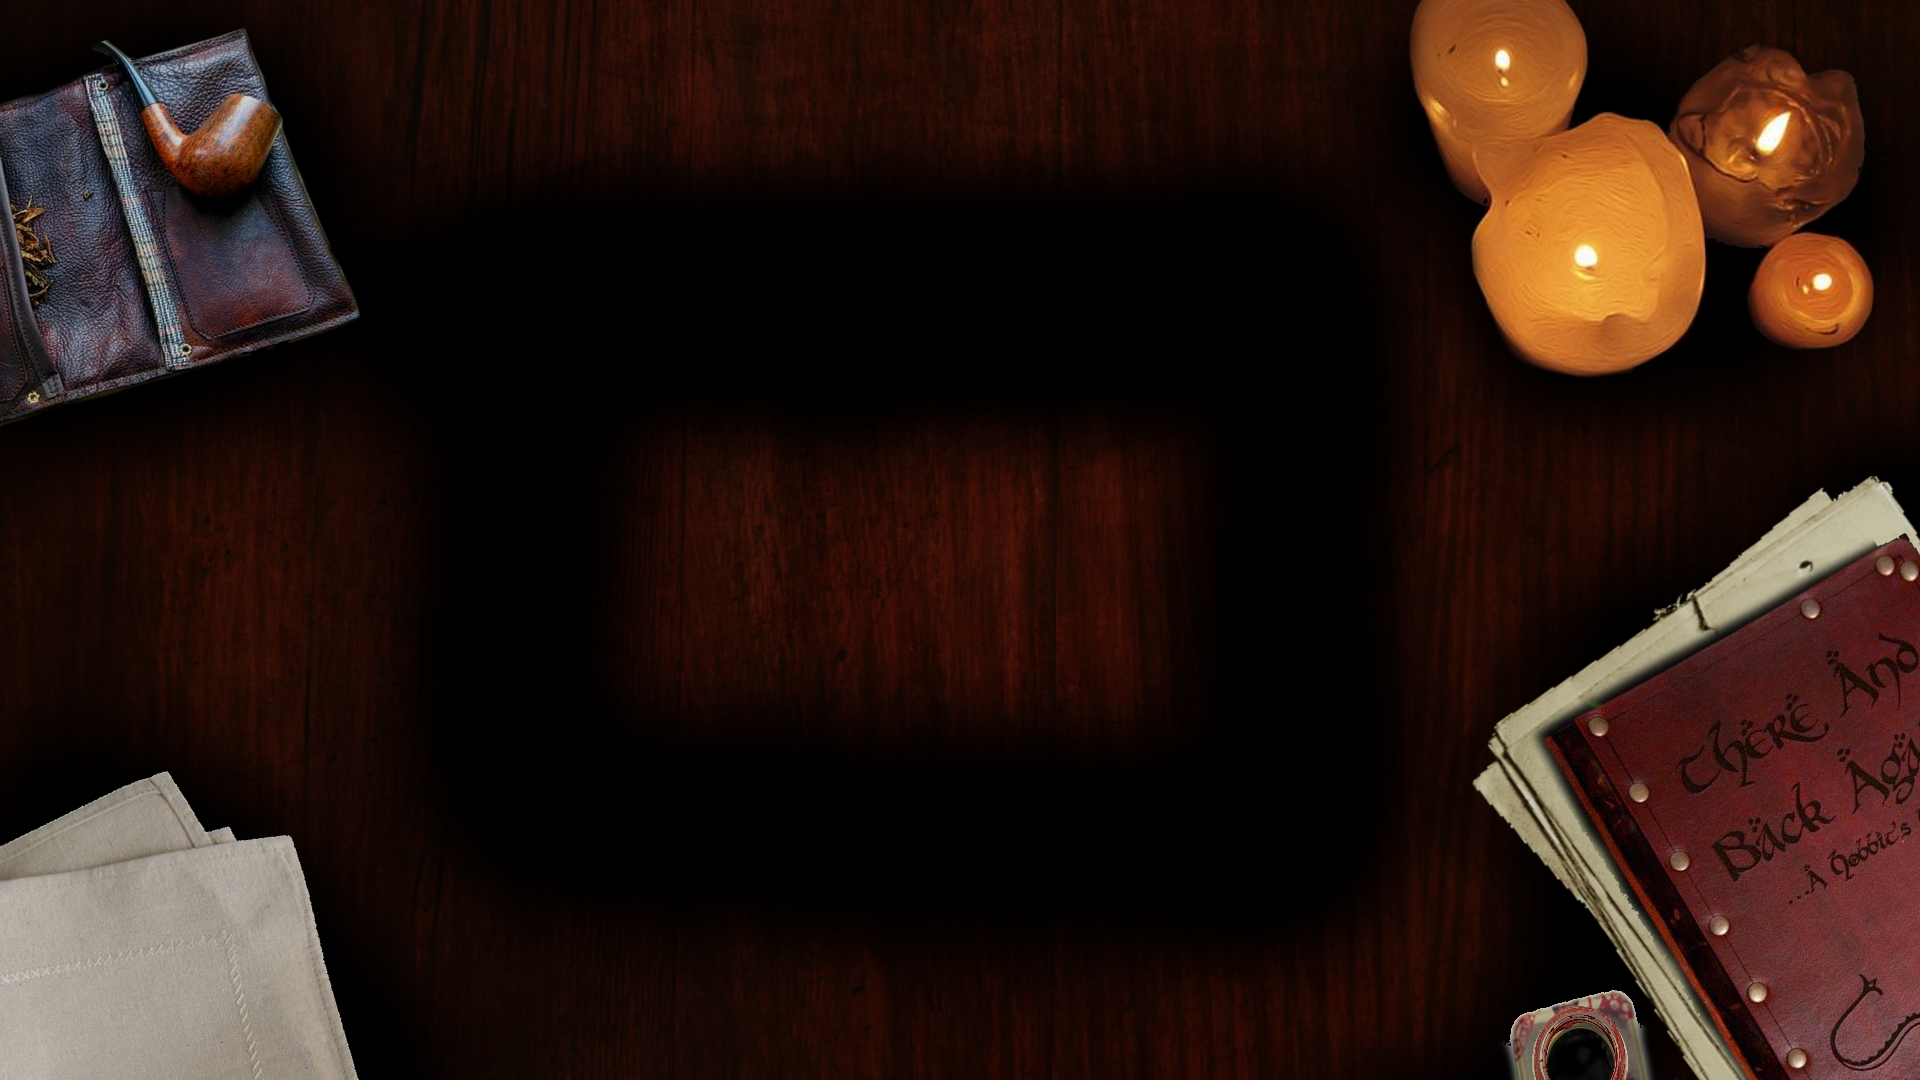
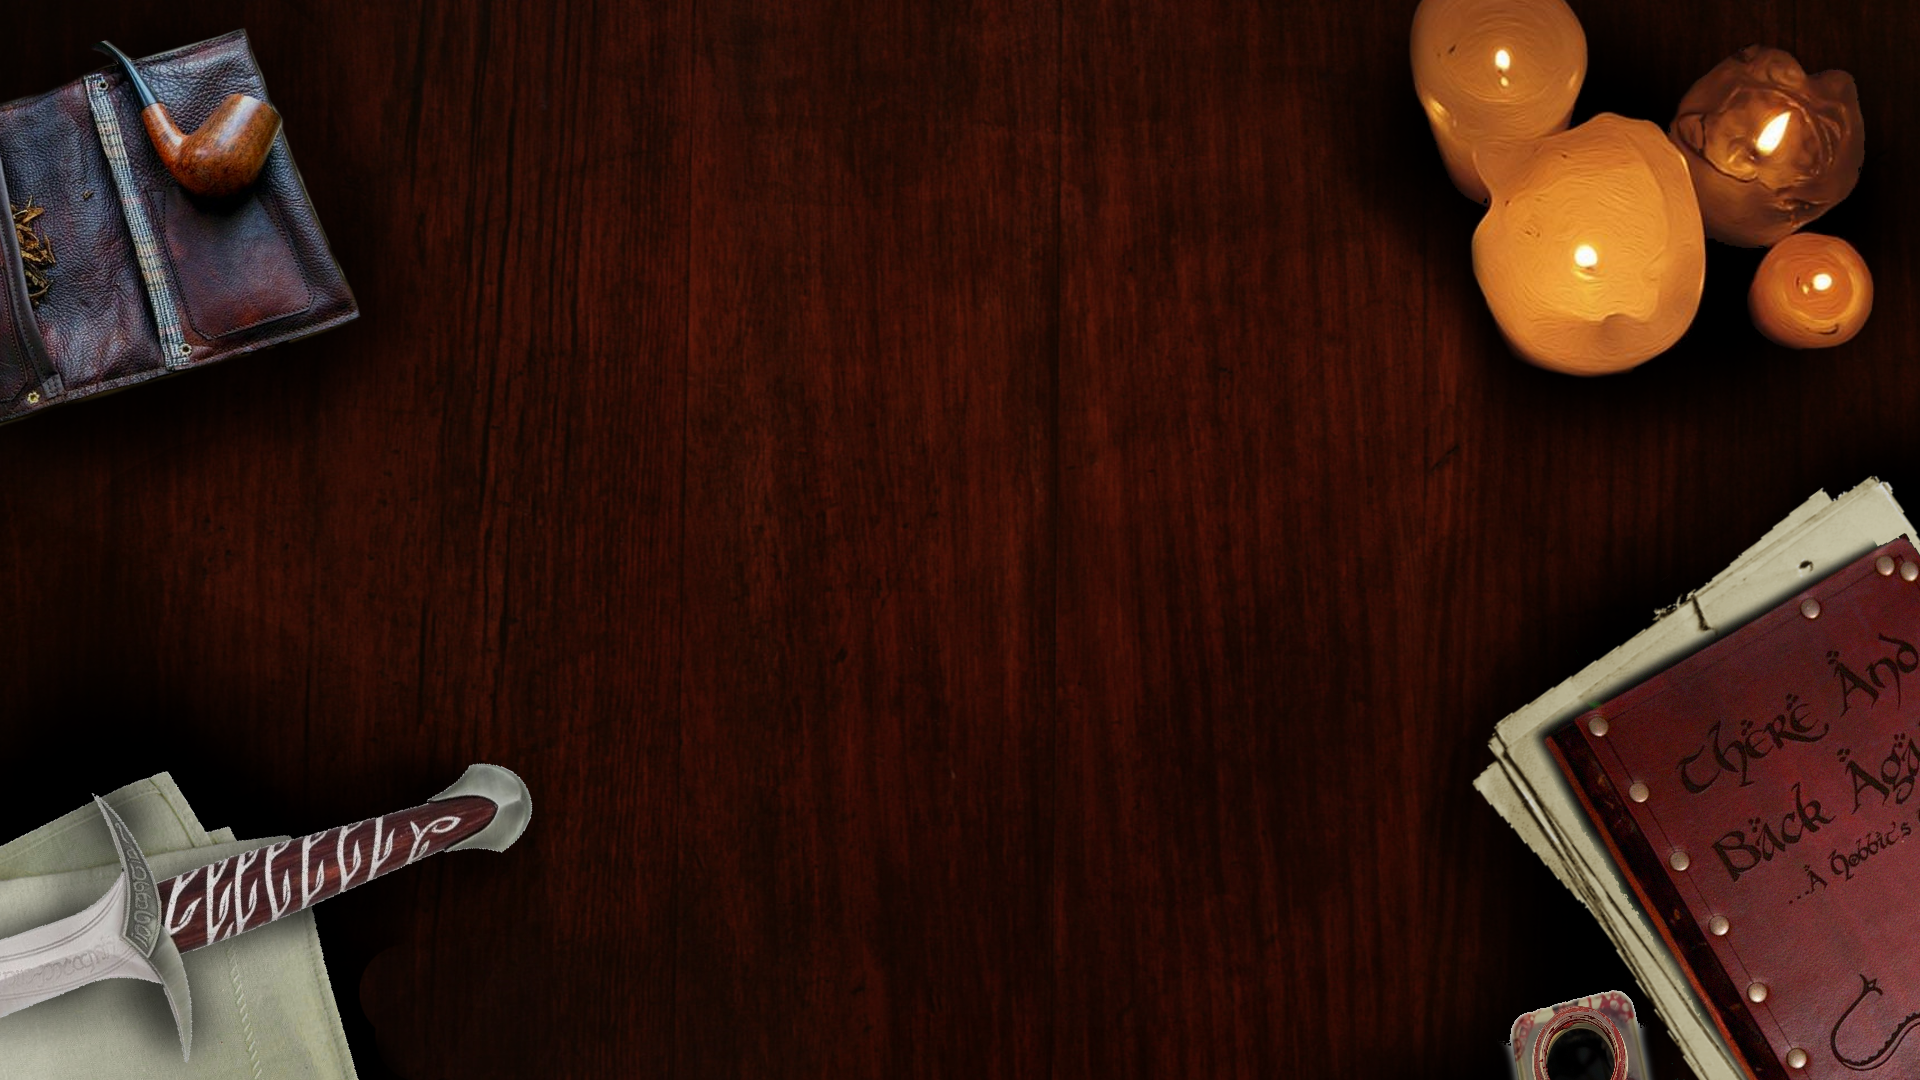
Added new background

diff --git a/frontend/src/assets/less/App.less b/frontend/src/assets/less/App.less
@@ -4,7 +4,7 @@
 @font-face {
   font-family: 'Aniron';
   src:
-    url('../fonts/aniron.ttf') format('truetype'),
+    url('../fonts/aniron.ttf') format('truetype')
 }
 
 // Main App
@@ -13,20 +13,21 @@
   width: 100vw;
   border: 5px solid rgb(0, 0, 0);
   background-color: rgb(0, 0, 0);
-  color: white;
 }
 
 // Map
 .leaflet-container {
   width: 100vw;
   height: 100vh;
-  // background-image: url(../img/Landing_Page.png);
-  background-image: url("../img/DarkWood.jpg");
+	background: rgba(221, 221, 221, 0);
   box-shadow:
-    inset 0 0 500px rgb(0, 0, 0),
-    inset 0 0 500px rgb(0, 0, 0),
-    inset 0 0 500px rgb(0, 0, 0);
+    inset 0 0 300px rgb(0, 0, 0),
+    inset 0 0 300px rgb(0, 0, 0),
+    inset 0 0 300px rgb(0, 0, 0);
+  backdrop-filter: blur(5px);
+}
 
+#mapContainer {
 }
 
 ::-webkit-scrollbar {
@@ -36,11 +37,13 @@
 .marker-popup {
   width: 50vw;
   height: 50vh;
+  filter: drop-shadow(2px 2px 2px #000000)
 }
 
 .leaflet-popup-content-wrapper {
   background: black;
   color: white;
+  filter: drop-shadow(2px 2px 2px #000000)
 }
 
 .lyt-activated {
@@ -48,15 +51,25 @@
   height: 47vh;
 }
 
-#mainMap {
-  display: flex;
-  justify-content: center;
+#mapBackground {
+  background-image: url('../img/Landing_Page.png');
+  background-size: cover;
+  background-repeat: no-repeat;
+  background-position: center center;
+  width: 100vw;
+  height: 100vh;
+  animation: fadein 2s;
+  -moz-animation: fadein 2s; /* Firefox */
+  -webkit-animation: fadein 2s; /* Safari and Chrome */
+  -o-animation: fadein 2s; /* Opera */
 }
 
 .leaflet-bar a,
 .leaflet-bar a:hover {
   background-color: black;
   color: white;
+  filter: drop-shadow(2px 2px 2px #000000)
+
 }
 
 // Side Bar
@@ -79,14 +92,6 @@
   margin: 16px;
   margin-top: 25px;
   filter: invert(100%);
-}
-
-/* Fade In */
-#mainMap {
-  animation: fadein 2s;
-  -moz-animation: fadein 2s; /* Firefox */
-  -webkit-animation: fadein 2s; /* Safari and Chrome */
-  -o-animation: fadein 2s; /* Opera */
 }
 
 @keyframes fadein {

diff --git a/frontend/src/components/pages/Map.tsx b/frontend/src/components/pages/Map.tsx
@@ -74,17 +74,20 @@ export const LOTRMap = (props: any) => {
     //   }
 
     return (
-        <div id='mainMap'>
+        <div id='mapBackground'>
             <div id="mapContainer">
                 <MapContainer
                     id="lotrMap"
+                    bounds={mapBounds}
+                    maxBounds={mapBounds}
+                    maxBoundsViscosity={100}
                     scrollWheelZoom={true}
                     zoomAnimation={true}
-                    center={[MAP_Y / 3.8, MAP_X / 1.85]}
+                    center={mapBounds.getCenter()}
                     zoomSnap={0.2}
                     zoomDelta={0.2}
                     maxZoom={-0.5}
-                    minZoom={-2.5}
+                    minZoom={-2.6}
                     zoom={-1}
                     wheelDebounceTime={0}
                     wheelPxPerZoomLevel={120}
@@ -118,7 +121,10 @@ export const LOTRMap = (props: any) => {
                                 icon={iconLOTR}
                                 position={marker.location}
                             >
-                                <Popup className='marker-popup'>
+                                <Popup
+                                    className='marker-popup'
+                                    keepInView={true}
+                                >
                                     <LiteYouTubeEmbed
                                         id={marker.url}
                                         title={marker.name}
